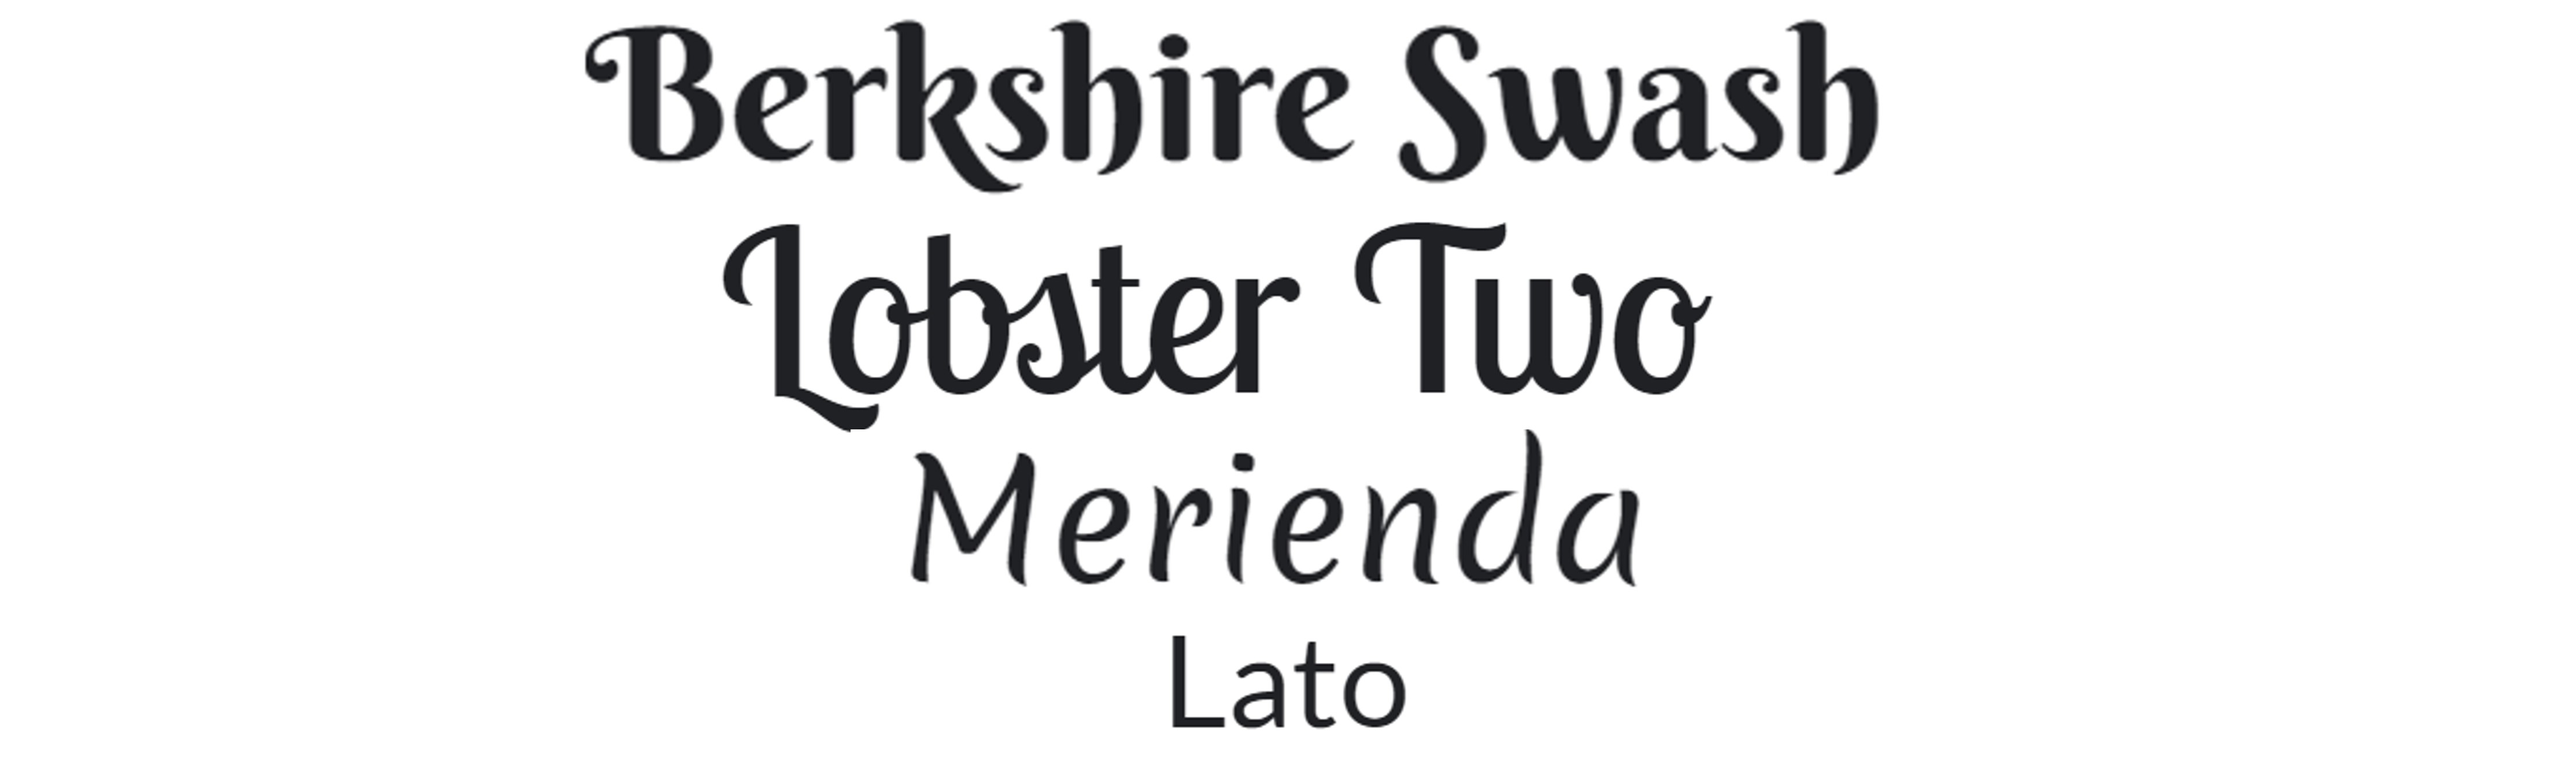
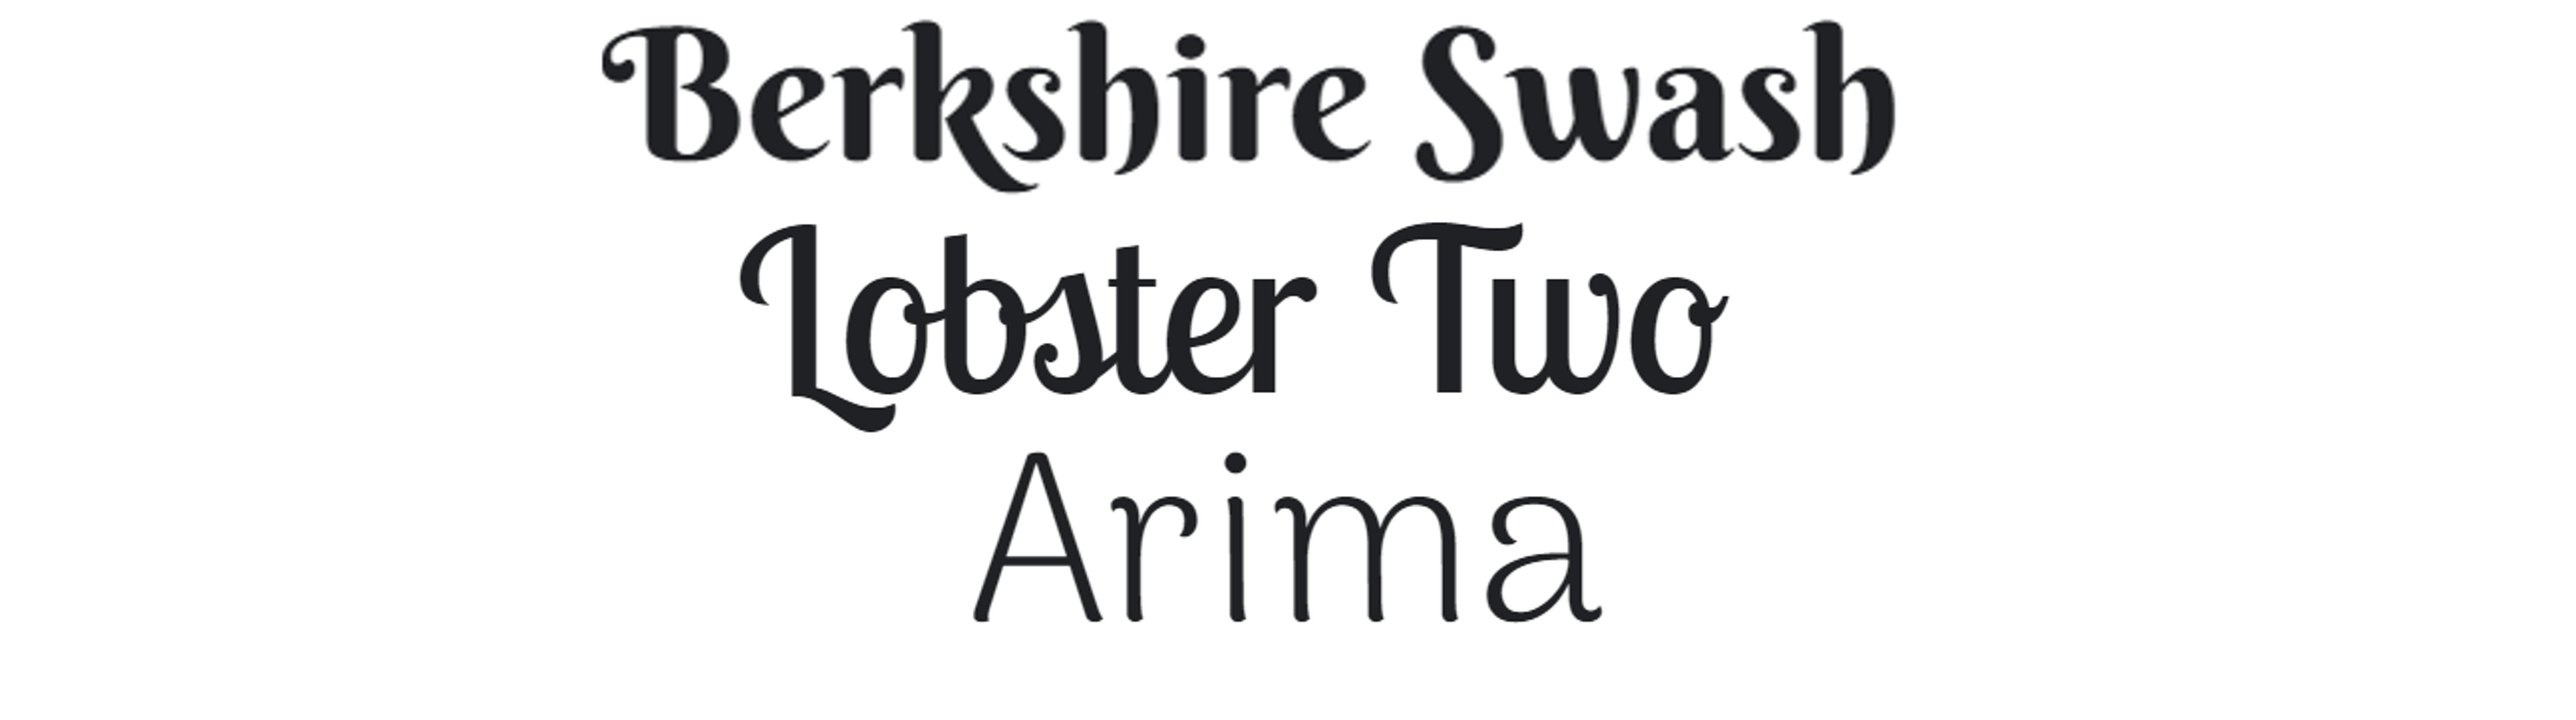
Add screenshots and text to README.md

Changed region(s): [[0.2184, 0.0305, 0.7488, 0.9454]]

diff --git a/assets/css/style.css b/assets/css/style.css
@@ -1,9 +1,9 @@
-@import url('https://fonts.googleapis.com/css2?family=Arima:wght@300&family=Berkshire+Swash&family=Diplomata+SC&family=Kosugi+Maru&family=Libre+Baskerville:ital@1&family=Lobster&family=Lobster+Two&family=Merienda&family=Montserrat:wght@300&family=Roboto+Mono&family=Satisfy&display=swap');
+@import url('https://fonts.googleapis.com/css2?family=Arima:wght@400&family=Berkshire+Swash&family=Diplomata+SC&family=Kosugi+Maru&family=Libre+Baskerville:ital@1&family=Lobster&family=Lobster+Two&family=Merienda&family=Montserrat:wght@300&family=Roboto+Mono&family=Satisfy&display=swap');
 
 :root {
     --h1-font: "Berkshire Swash", sans-serif;
     --h2-font:"Berkshire Swash", sans-serif;
-    --nav-menu-font:"Merienda", sans-serif;
+    --nav-menu-font:"Lobster Two", sans-serif;
     --link-font: "Lobster Two", sans-serif;
     --body-font: "Arima", sans-serif;
     
@@ -66,11 +66,10 @@ nav {
 
 .nav-menu a {
     font-family: var(--nav-menu-font);
-    font-weight: 300;
     color: rgba(var(--black),1);
-    font-size: 150%;
+    font-size: 160%;
     text-decoration: none;
-    padding: 0 3vw;
+    padding: 0 2vw;
 }
 
 .nav-menu a:hover {
@@ -161,6 +160,7 @@ footer {
     grid-area:1/3/span 1/11;
     padding: 30px 0;
     text-align: center;
+    font-size: 120%;
 }
 
 .main-photo-one {
@@ -318,6 +318,7 @@ footer {
 .animal-text-containers h3 {
     text-align: center;
     padding: 20px;
+    font-size: 200%;
 }
 .animal-one {
     grid-area:1/2/2/12;
@@ -398,9 +399,21 @@ footer {
     border: 3px solid rgba(var(--h1-color),1);
 }
 
+#text-comment {
+    max-width: 100%;
+    height: 100px;
+}
+
+#newsletter {
+    height: 20px;
+    width: 20px;
+}
+
 .submit-button {
     background-color: rgba(var(--background-color),1);
-    font-family: var(--nav-menu-font);
+    font-family: var(--body-font);
+    font-size: 100%;
+    font-weight: 600;
     padding: 10px;
     text-align: center;
     margin: 20px 10px;
@@ -411,10 +424,6 @@ footer {
 .submit-button:hover {
     background-color: rgba(var(--black),1);
     color: rgba(var(--background-color),1);
-}
-
-#comment {
-    height: 100px
 }
 
 .contact-info {
@@ -544,37 +553,6 @@ footer {
     .intermediate-photo-four {
         grid-area:2/15/3/span 3;
     }
-
-    /* Information page media queries*/
-    /* .grid-container-info-page {
-        display: grid;
-        grid-template-columns: repeat(6, 1fr) 75px repeat(6, 1fr);
-        grid-template-rows: repeat(4, 1fr);
-    }
-    .animal-one {
-        grid-area: 1/2/2/6;
-    }
-    .animal-one-text-container {
-        grid-area: 1/7/2/14;
-    }
-    .animal-two {
-        grid-area: 2/8/3/13;
-    }
-    .animal-two-text-container {
-        grid-area: 2/2/3/7;
-    }
-    .animal-three {
-        grid-area: 3/2/4/7;
-    }
-    .animal-three-text-container {
-        grid-area: 3/8/4/13;
-    }
-    .animal-four {
-        grid-area: 4/8/5/13;
-    }
-    .animal-four-text-container {
-        grid-area: 4/2/5/7;
-    } */
 
     /* Contact page media queries */
     .contact-page-div {

diff --git a/contact.html b/contact.html
@@ -46,12 +46,12 @@
                     <h2 id="contact-h2">Enjoyed Our Website?</h2>
                     <h3>We'd love to hear what you thought!</h3>
                     <label for="name">Name*: </label>
-                    <input type="text" id="name" name="name" class="text-input" required>
+                    <input type="text" id="name" name="name" class="text-input" placeholder="Your name" required>
                     <label for="email">E-mail Address*: </label>
-                    <input type="email" id="email" name="email_address" class="text-input" required>
+                    <input type="email" id="email" name="email_address" class="text-input" placeholder="Your E-mail address" required>
                     <label for="comment">Leave your comment here: </label>
-                    <input type="text" name="comment" id="comment" class="text-input">
-                    <input type="checkbox" name="newsletter" id="newsletter">
+                    <textarea name="comment" id="text-comment" cols="92" rows="10" class="text-input" placeholder="Please type your comment here"></textarea>
+                    <input type="checkbox" name="newsletter" id="newsletter" checked>
                     <label for="newsletter">Sign up to Newsletter</label>
                     <input type="submit" value="Let's Network!" class="submit-button">
                     * Required field

diff --git a/README.md b/README.md
@@ -2,6 +2,8 @@
 ## Overview of project
 ‘Love Venom’ is a site that aims to provide accurate educational content about venom and animal poisons and the animals that produce them. This site will be useful for anyone who has an interest in venom, animal poison or animals in general and is intended for adults and children aged 12+.
 
+Target audience: 
+
 ![am-i-responsive](documentation/testing/am-i-responsive-img.gif)
 
 Click [here](https://ui.dev/amiresponsive?url=https://dragon-fire-fly.github.io/venom/index.html) to view responsive mockup
@@ -48,21 +50,15 @@ The hex codes shown above were converted to rgb colours values to be used for th
 
 ### Typography
 The following fonts were selected from Google Fonts:
-- _Berkshire Swash_ for the main "Love Venom" logo and h2 titles
-- _Merienda_ for the nav bar text
-- _Lobster Two_ for the main page photo labels
-- _Lato_ for the main body text
+- _Berkshire Swash_ was chosen for the main "Love Venom" logo and h2 titles as it is a large, bold font with a calligraphic flair, perfect for titles.
+- _Lobster Two_ was chosen for the nav bar and main page photo labels as it is a visually appealing, joined-up style which is still easier to read. The Lobster family of fonts have different versions of each letter and the optimal variation is automatically selected to best fit its position in the word, ensuring an aesthetically pleasing joined-up effect.. Lobster Two has thinner text than the original Lobster text which makes it appear a little more delicate. 
+- _Amira_ was chosen for the main body text as it retains a calligraphic charachter but is an easily readable font with generous line spacing.
 
 ![typography](documentation/features/typography.jpg)
 
 All fonts were set as --root values and had _sans-serif_ set as a fall-back font in the case that the specific fonts could not be loaded.
 
-FontAwesome icons were used for social media buttons and collapible nav menu:
-- [Facebook](https://fontawesome.com/search?q=facebook&s=solid%2Cbrands)
-- [Instagram](https://fontawesome.com/search?q=instagram&s=solid%2Cbrands)
-- [Twitter](https://fontawesome.com/search?q=twitter&s=solid%2Cbrands)
-- [Bars menu](https://fontawesome.com/search?q=bars&s=solid%2Cbrands)
-<!-- Link to icons used -->
+FontAwesome icons were used for social media buttons ([Facebook](https://fontawesome.com/search?q=facebook&s=solid%2Cbrands), [Instagram](https://fontawesome.com/search?q=instagram&s=solid%2Cbrands) and [Twitter](https://fontawesome.com/search?q=twitter&s=solid%2Cbrands)) and collapible nav menu ([Bars menu](https://fontawesome.com/search?q=bars&s=solid%2Cbrands)).
 
 ### Wireframes
 <details>
@@ -82,25 +78,58 @@ The following wireframes were created using Balsamiq Wireframes:</summary>
 </details>
 
 ## Features
-<!-- Briefly explain the project here -->
+<!-- Briefly explain the project here (consistency accross different pages, formatted according to best practice, good quality, non-distorted images) -->
 
 ### Existing Features
 
 <!-- Add screenshot of each! -->
 1. Navigation bar
-- featured on every page of the site and uses consistent colours and typography
-- features the main "Love Venom" logo, "Home", "Vertebrates", "Invertebrates", "Contact"
-- allows user to quickly navigate between sections of the website without having to use the "back" button on thier browser
-- adaptive design for different screen sizes and collapses into a "burger menu" for smaller mobile devices (600 pixels or smaller)
-- allows user to know which section they are currently on by underlining that section's name on the menu
+- Featured on every page of the site and uses consistent colours and typography
+- Features the main "Love Venom" logo, "Home", "Vertebrates", "Invertebrates", "Contact"
+- Allows user to quickly navigate between sections of the website without having to use the "back" button on thier browser
+- Adaptive design for different screen sizes and collapses into a "burger menu" for smaller mobile devices (600 pixels or smaller)
+- Allows user to know which section they are currently on by underlining that section's name on the menu
+![Navigation-menu](documentation/features/nav-menu.png)
 
 
 
+2. Landing page 
+- Welcomes users and briefly describes the purpose of the site
+- Features the ability to select between vertebrates and invertebrate sections and links to these sections by clicking the photo or title
+- Features high quality, non-distorted images positioned using CSS grid
+- Images are responsive to different screen sizes and change between being side-by-side or stacked on top of eachother, depending on screen size of device
+![landing-page-images](documentation/features/landing-page-images.png)
 
-2. Ability to select between vertebrates and invertebrate sections
+
 3. Individual pages for different types of animals
+- Two sub-pages, one each for vertebrates and invertebrates
+- Features high quality, non-distorted images positioned using CSS grid
+- Images are responsive to different screen sizes and change between being side-by-side or stacked on top of eachother, depending on screen size of device
+- Features the ability to select between different animal sections and links to these sections by clicking the photo or title
+
+![intermediate-pages](documentation/features/intermediate-page.png)
+
 4. Footer with social media links
+- Featured on every page of the site and uses consistent colours and typography
+- Links to external social media accounts. As this is a mock website, it is not associated with real social media accounts and therefore the links open the home pages of the relevant social media sites. These links open in a new tab.
+- Features a high-quality photo of a spider on a leaf with a blue background. Shades similar to this blue were used for the banner and social media icons also featured in the footer in order to complement each other. Various amounts of opacity were applied to the banner depending on the screen size to ensure the spider can be seen through the banner when relevant.
+- Spider photo is fixed in position so as the user scrolls to the footer, the spider is revealed
+- Features a "Back to top" button, which is fixed in position so it can be accessed from anywhere on the page. This allows the user to easily return to the top of the page to make use of the navigation features. This is positioned at the bottom of the page in the centre, and adjusts in size and position responsively.
+
+![footer](documentation/features/footer.png)
+
 5. Contact page with validation and a confirmation page
+- Features a high quality image of a spider's web with dew drops
+- Features contact form with form validation so that the user may leave feedback or request to join the mailing list
+- The input boxes have a green border around them when hovered over. The submit button also changes to contrasting colours when hovered over. These features provide feedback to the user to know where they are potentially about to click
+
+![contact-page](documentation/features/contact-page.png)
+
+
+- Features a confirmation page which the user is directed to after sucessful submission of the form
+
+![confirmation-page](documentation/features/confirmation-page.png)
+
 
 ### Features Left to Implement
 1. What is venom? What is the difference between venoms and poisons?
@@ -111,7 +140,8 @@ The following wireframes were created using Balsamiq Wireframes:</summary>
 3. [Gitpod](https://gitpod.io/)
 4. [Github](https://github.com/)
 5. [Balsamiq](https://balsamiq.com/) (for wireframes)
-6. CSS grid
+6. CSS grid for positioning
+7. --root values for consistency and ease of alteration
 
 ## Testing
 For details of all testing, please refer to the [TESTING.md](TESTING.md) file.
